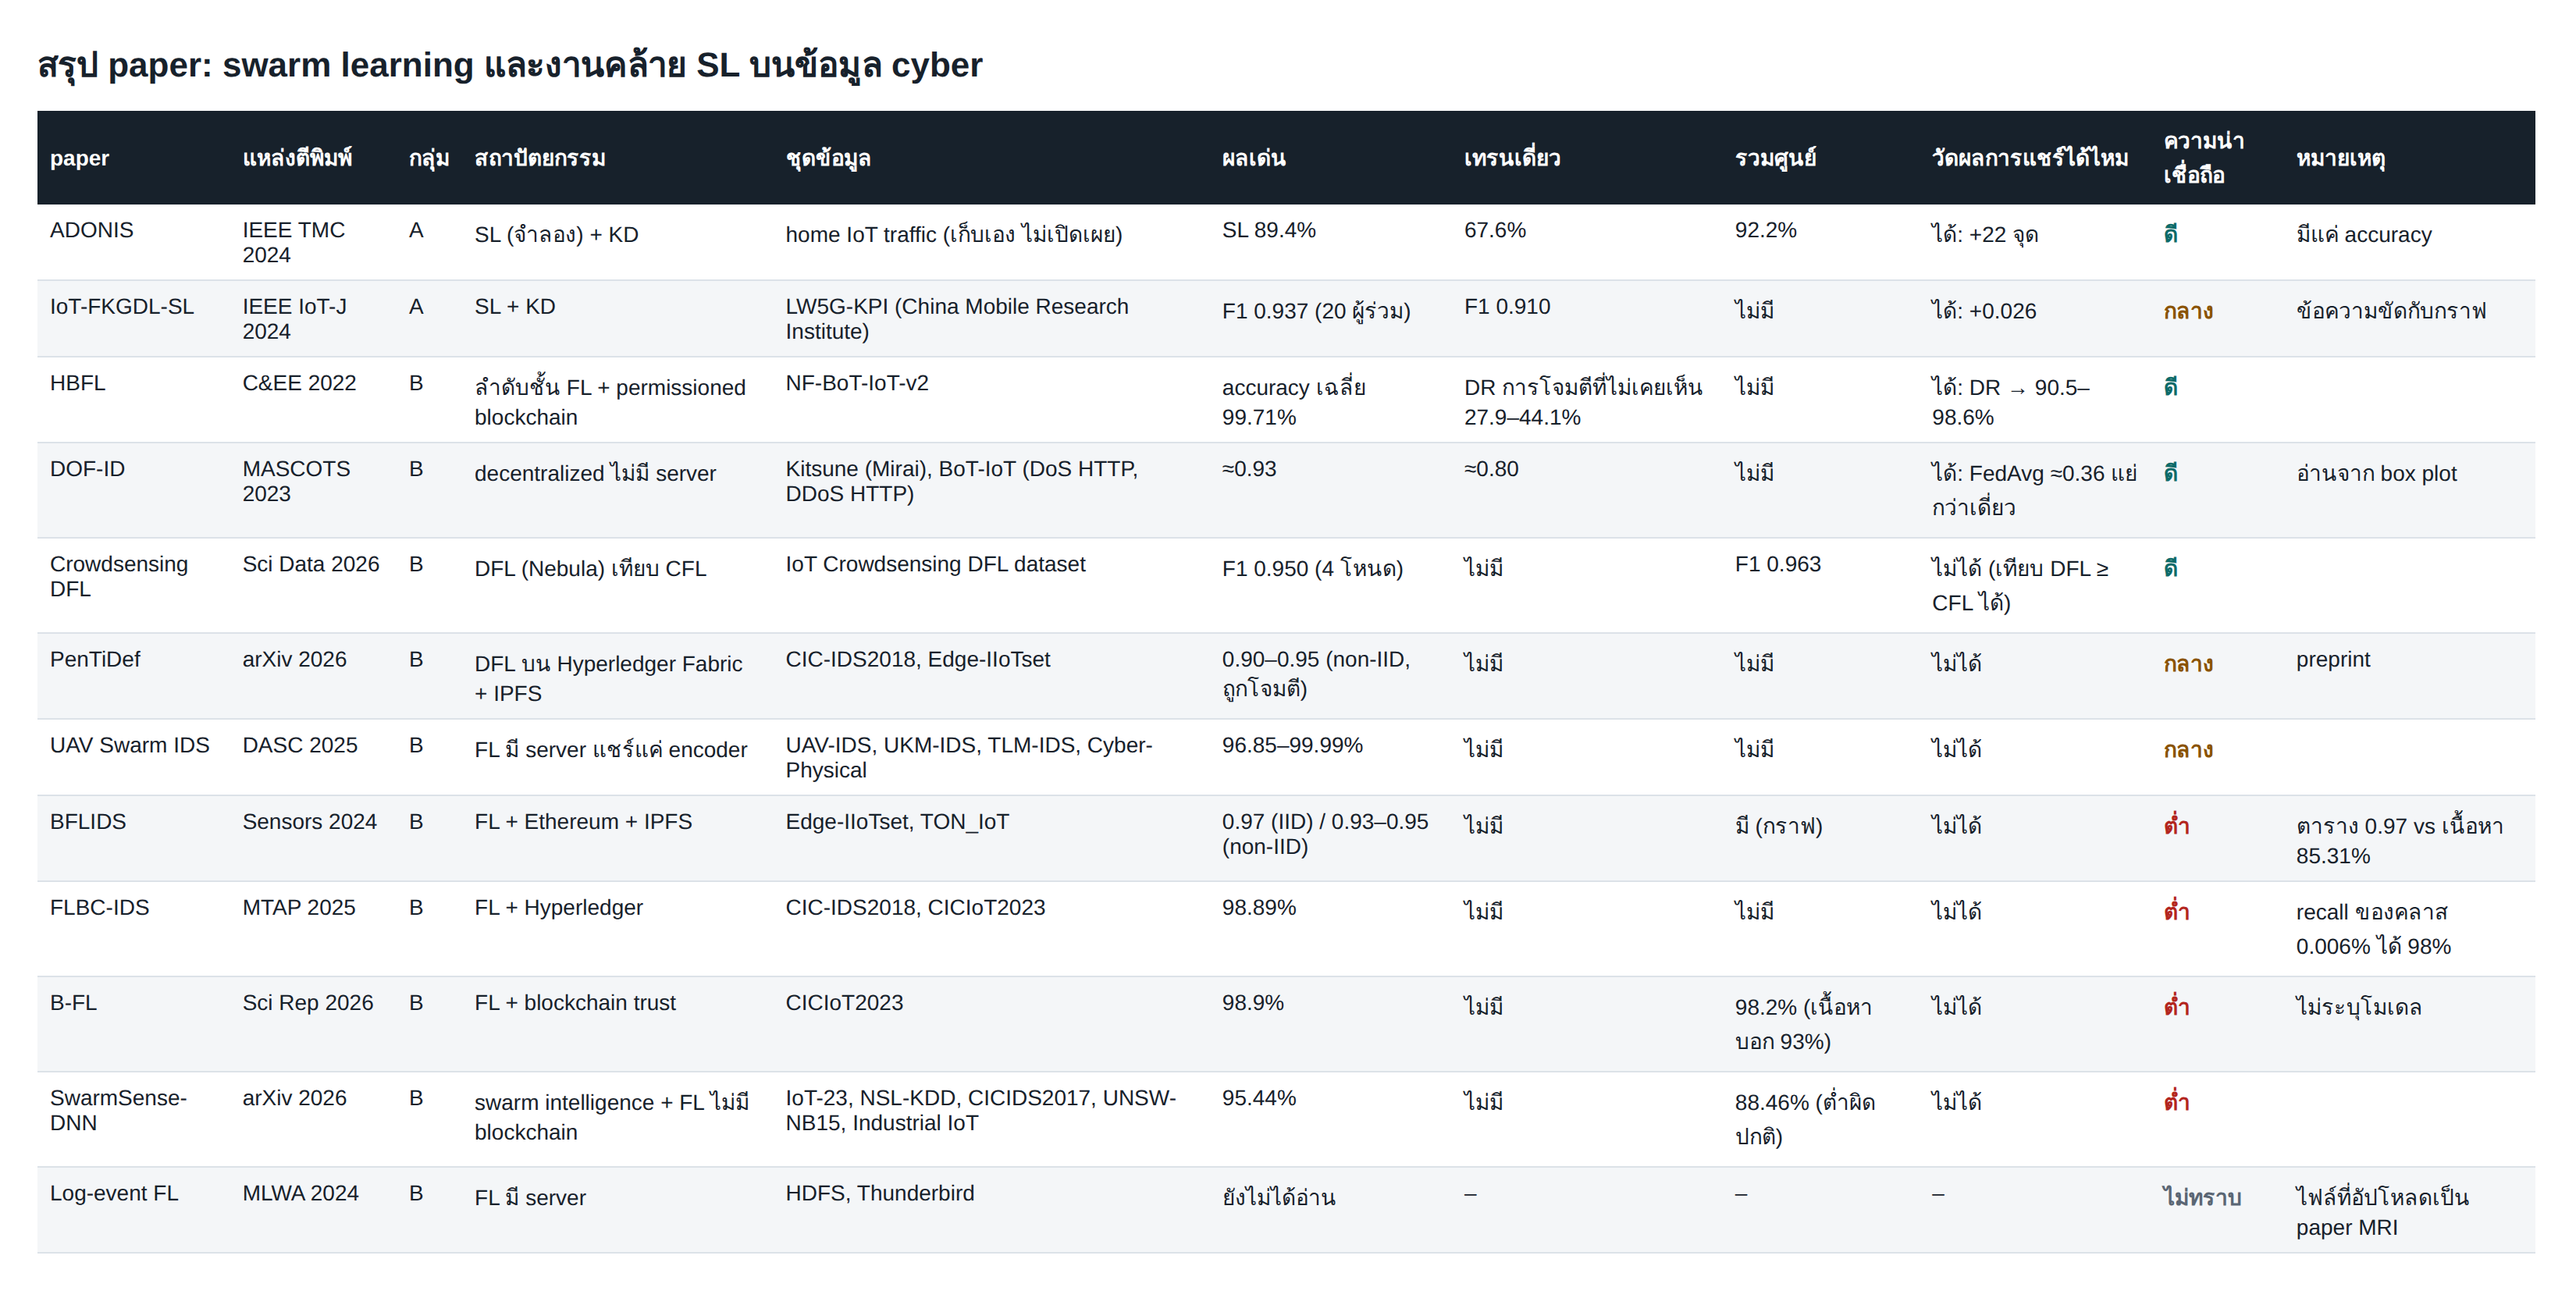
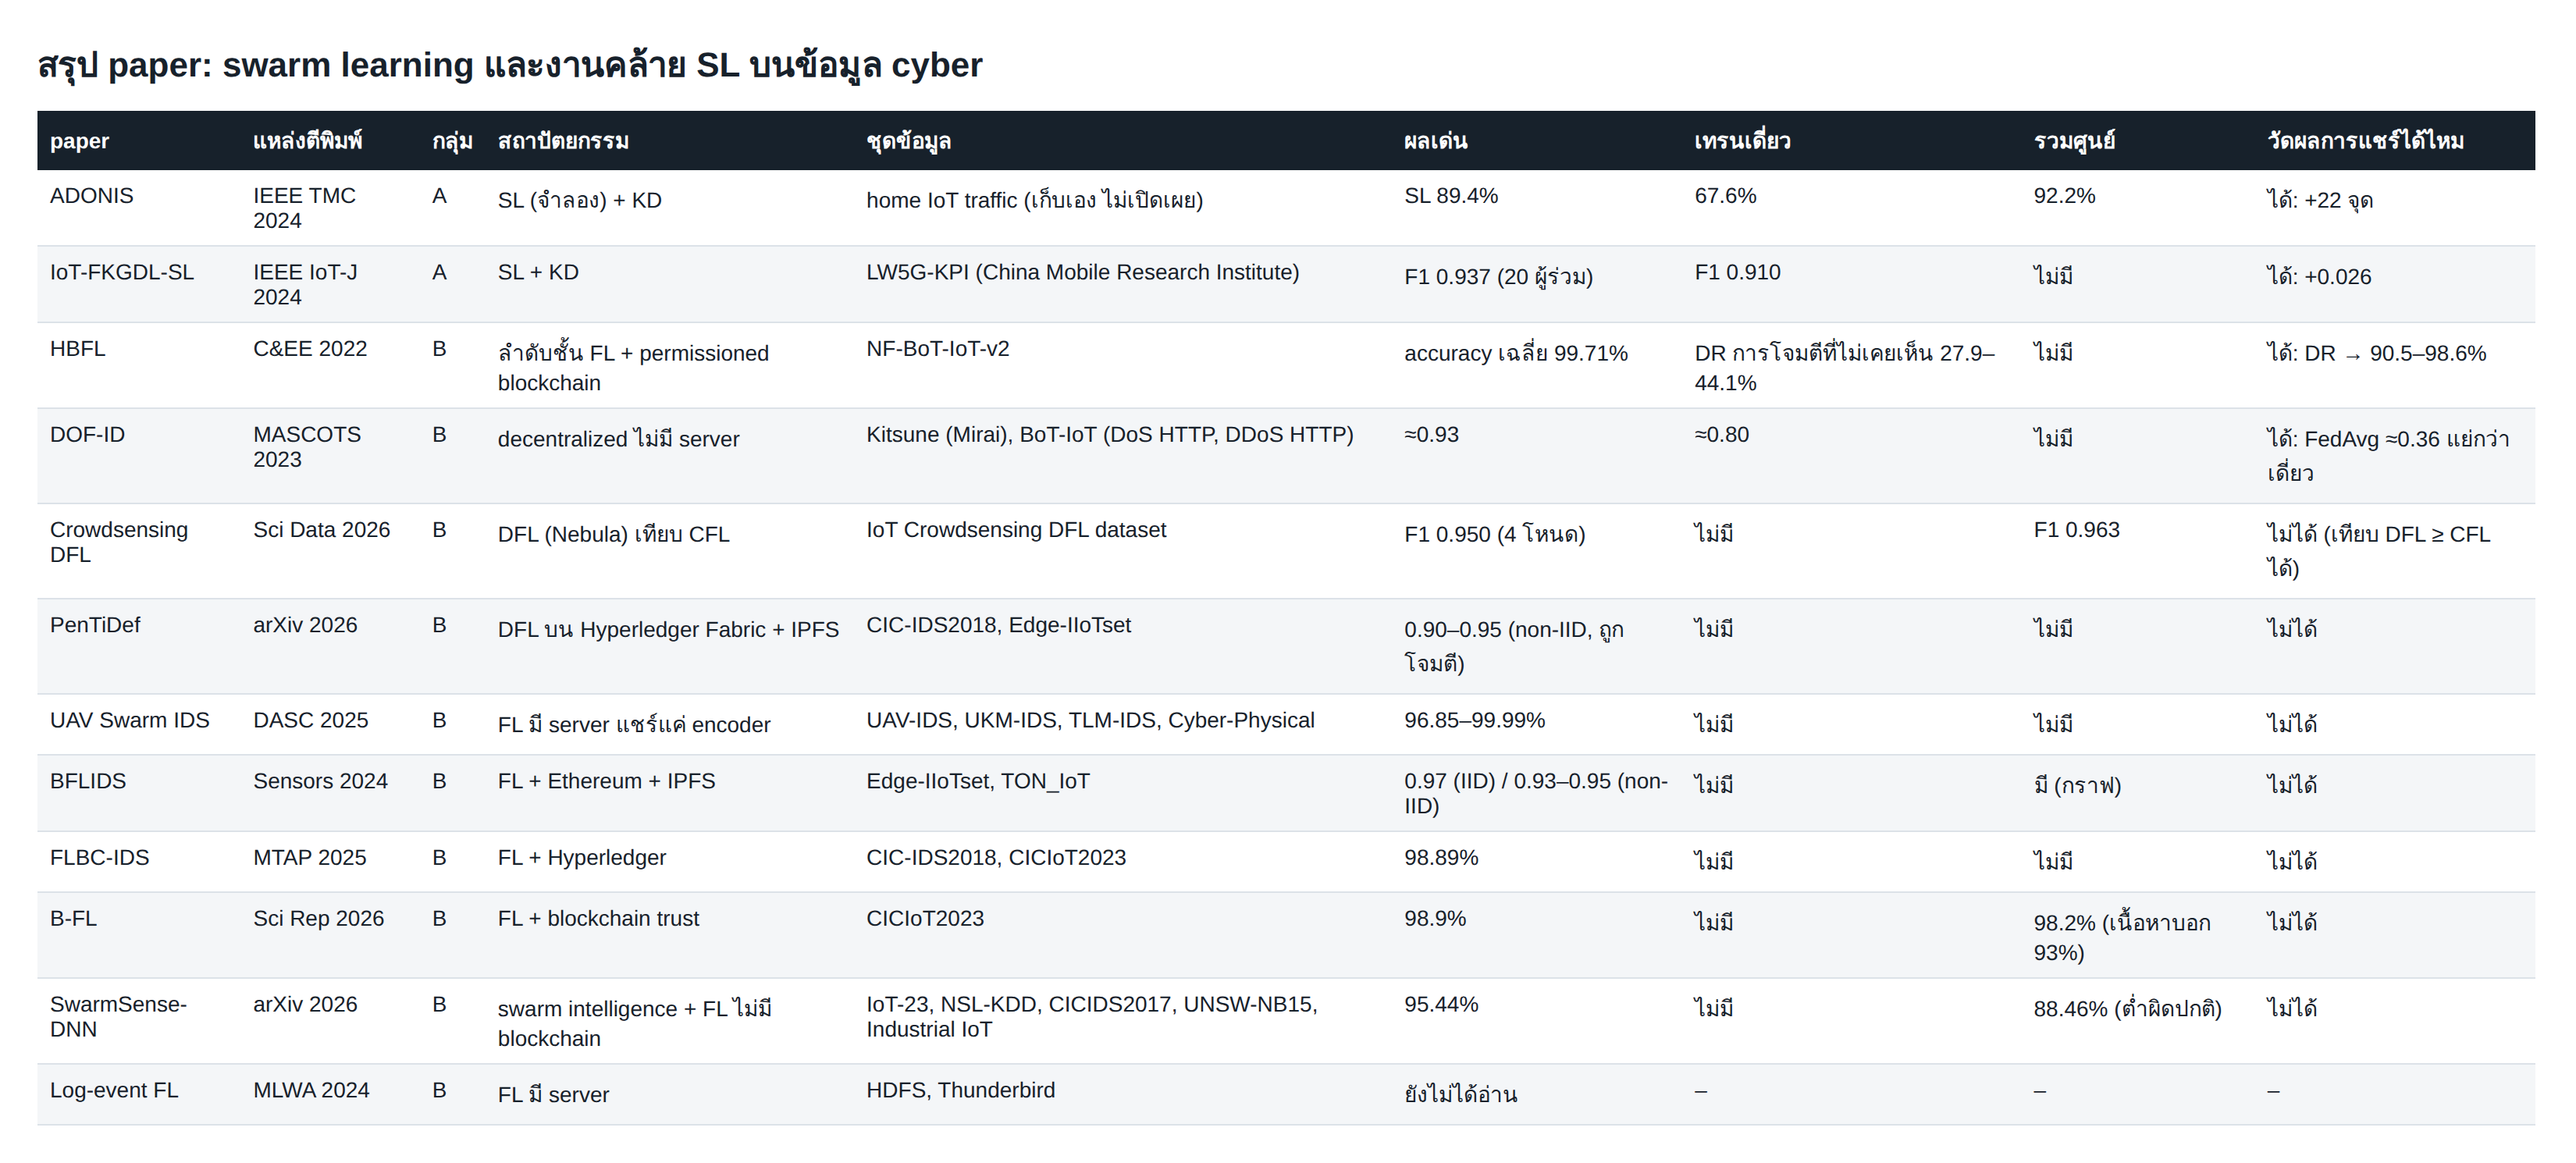
paper review: drop reliability and note columns from Canva export
Claude-Session: https://claude.ai/code/session_01TW26B3fiA9YvDmaURBJTqZ

diff --git a/poc/Finding Dataset/paper review/export/summary.html b/poc/Finding Dataset/paper review/export/summary.html
@@ -7,7 +7,6 @@ table { border-collapse: collapse; width: 1600px; font-size: 14px; }
 th { background: #17212b; color: #fff; text-align: left; padding: 8px; font-weight: 600; }
 td { border-bottom: 1px solid #dce2e8; padding: 8px; vertical-align: top; }
 tr:nth-child(even) td { background: #f4f6f8; }
-td.rel { font-weight: 600; }
 </style>
 <h1>สรุป paper: swarm learning และงานคล้าย SL บนข้อมูล cyber</h1>
-<table><thead><tr><th>paper</th><th>แหล่งตีพิมพ์</th><th>กลุ่ม</th><th>สถาปัตยกรรม</th><th>ชุดข้อมูล</th><th>ผลเด่น</th><th>เทรนเดี่ยว</th><th>รวมศูนย์</th><th>วัดผลการแชร์ได้ไหม</th><th>ความน่าเชื่อถือ</th><th>หมายเหตุ</th></tr></thead><tbody><tr><td>ADONIS</td><td>IEEE TMC 2024</td><td>A</td><td>SL (จำลอง) + KD</td><td>home IoT traffic (เก็บเอง ไม่เปิดเผย)</td><td>SL 89.4%</td><td>67.6%</td><td>92.2%</td><td>ได้: +22 จุด</td><td class='rel' style='color:#0D6B69'>ดี</td><td>มีแค่ accuracy</td></tr><tr><td>IoT-FKGDL-SL</td><td>IEEE IoT-J 2024</td><td>A</td><td>SL + KD</td><td>LW5G-KPI (China Mobile Research Institute)</td><td>F1 0.937 (20 ผู้ร่วม)</td><td>F1 0.910</td><td>ไม่มี</td><td>ได้: +0.026</td><td class='rel' style='color:#8A5300'>กลาง</td><td>ข้อความขัดกับกราฟ</td></tr><tr><td>HBFL</td><td>C&amp;EE 2022</td><td>B</td><td>ลำดับชั้น FL + permissioned blockchain</td><td>NF-BoT-IoT-v2</td><td>accuracy เฉลี่ย 99.71%</td><td>DR การโจมตีที่ไม่เคยเห็น 27.9–44.1%</td><td>ไม่มี</td><td>ได้: DR → 90.5–98.6%</td><td class='rel' style='color:#0D6B69'>ดี</td><td></td></tr><tr><td>DOF-ID</td><td>MASCOTS 2023</td><td>B</td><td>decentralized ไม่มี server</td><td>Kitsune (Mirai), BoT-IoT (DoS HTTP, DDoS HTTP)</td><td>≈0.93</td><td>≈0.80</td><td>ไม่มี</td><td>ได้: FedAvg ≈0.36 แย่กว่าเดี่ยว</td><td class='rel' style='color:#0D6B69'>ดี</td><td>อ่านจาก box plot</td></tr><tr><td>Crowdsensing DFL</td><td>Sci Data 2026</td><td>B</td><td>DFL (Nebula) เทียบ CFL</td><td>IoT Crowdsensing DFL dataset</td><td>F1 0.950 (4 โหนด)</td><td>ไม่มี</td><td>F1 0.963</td><td>ไม่ได้ (เทียบ DFL ≥ CFL ได้)</td><td class='rel' style='color:#0D6B69'>ดี</td><td></td></tr><tr><td>PenTiDef</td><td>arXiv 2026</td><td>B</td><td>DFL บน Hyperledger Fabric + IPFS</td><td>CIC-IDS2018, Edge-IIoTset</td><td>0.90–0.95 (non-IID, ถูกโจมตี)</td><td>ไม่มี</td><td>ไม่มี</td><td>ไม่ได้</td><td class='rel' style='color:#8A5300'>กลาง</td><td>preprint</td></tr><tr><td>UAV Swarm IDS</td><td>DASC 2025</td><td>B</td><td>FL มี server แชร์แค่ encoder</td><td>UAV-IDS, UKM-IDS, TLM-IDS, Cyber-Physical</td><td>96.85–99.99%</td><td>ไม่มี</td><td>ไม่มี</td><td>ไม่ได้</td><td class='rel' style='color:#8A5300'>กลาง</td><td></td></tr><tr><td>BFLIDS</td><td>Sensors 2024</td><td>B</td><td>FL + Ethereum + IPFS</td><td>Edge-IIoTset, TON_IoT</td><td>0.97 (IID) / 0.93–0.95 (non-IID)</td><td>ไม่มี</td><td>มี (กราฟ)</td><td>ไม่ได้</td><td class='rel' style='color:#B3261E'>ต่ำ</td><td>ตาราง 0.97 vs เนื้อหา 85.31%</td></tr><tr><td>FLBC-IDS</td><td>MTAP 2025</td><td>B</td><td>FL + Hyperledger</td><td>CIC-IDS2018, CICIoT2023</td><td>98.89%</td><td>ไม่มี</td><td>ไม่มี</td><td>ไม่ได้</td><td class='rel' style='color:#B3261E'>ต่ำ</td><td>recall ของคลาส 0.006% ได้ 98%</td></tr><tr><td>B-FL</td><td>Sci Rep 2026</td><td>B</td><td>FL + blockchain trust</td><td>CICIoT2023</td><td>98.9%</td><td>ไม่มี</td><td>98.2% (เนื้อหาบอก 93%)</td><td>ไม่ได้</td><td class='rel' style='color:#B3261E'>ต่ำ</td><td>ไม่ระบุโมเดล</td></tr><tr><td>SwarmSense-DNN</td><td>arXiv 2026</td><td>B</td><td>swarm intelligence + FL ไม่มี blockchain</td><td>IoT-23, NSL-KDD, CICIDS2017, UNSW-NB15, Industrial IoT</td><td>95.44%</td><td>ไม่มี</td><td>88.46% (ต่ำผิดปกติ)</td><td>ไม่ได้</td><td class='rel' style='color:#B3261E'>ต่ำ</td><td></td></tr><tr><td>Log-event FL</td><td>MLWA 2024</td><td>B</td><td>FL มี server</td><td>HDFS, Thunderbird</td><td>ยังไม่ได้อ่าน</td><td>–</td><td>–</td><td>–</td><td class='rel' style='color:#5a6674'>ไม่ทราบ</td><td>ไฟล์ที่อัปโหลดเป็น paper MRI</td></tr></tbody></table>
+<table><thead><tr><th>paper</th><th>แหล่งตีพิมพ์</th><th>กลุ่ม</th><th>สถาปัตยกรรม</th><th>ชุดข้อมูล</th><th>ผลเด่น</th><th>เทรนเดี่ยว</th><th>รวมศูนย์</th><th>วัดผลการแชร์ได้ไหม</th></tr></thead><tbody><tr><td>ADONIS</td><td>IEEE TMC 2024</td><td>A</td><td>SL (จำลอง) + KD</td><td>home IoT traffic (เก็บเอง ไม่เปิดเผย)</td><td>SL 89.4%</td><td>67.6%</td><td>92.2%</td><td>ได้: +22 จุด</td></tr><tr><td>IoT-FKGDL-SL</td><td>IEEE IoT-J 2024</td><td>A</td><td>SL + KD</td><td>LW5G-KPI (China Mobile Research Institute)</td><td>F1 0.937 (20 ผู้ร่วม)</td><td>F1 0.910</td><td>ไม่มี</td><td>ได้: +0.026</td></tr><tr><td>HBFL</td><td>C&amp;EE 2022</td><td>B</td><td>ลำดับชั้น FL + permissioned blockchain</td><td>NF-BoT-IoT-v2</td><td>accuracy เฉลี่ย 99.71%</td><td>DR การโจมตีที่ไม่เคยเห็น 27.9–44.1%</td><td>ไม่มี</td><td>ได้: DR → 90.5–98.6%</td></tr><tr><td>DOF-ID</td><td>MASCOTS 2023</td><td>B</td><td>decentralized ไม่มี server</td><td>Kitsune (Mirai), BoT-IoT (DoS HTTP, DDoS HTTP)</td><td>≈0.93</td><td>≈0.80</td><td>ไม่มี</td><td>ได้: FedAvg ≈0.36 แย่กว่าเดี่ยว</td></tr><tr><td>Crowdsensing DFL</td><td>Sci Data 2026</td><td>B</td><td>DFL (Nebula) เทียบ CFL</td><td>IoT Crowdsensing DFL dataset</td><td>F1 0.950 (4 โหนด)</td><td>ไม่มี</td><td>F1 0.963</td><td>ไม่ได้ (เทียบ DFL ≥ CFL ได้)</td></tr><tr><td>PenTiDef</td><td>arXiv 2026</td><td>B</td><td>DFL บน Hyperledger Fabric + IPFS</td><td>CIC-IDS2018, Edge-IIoTset</td><td>0.90–0.95 (non-IID, ถูกโจมตี)</td><td>ไม่มี</td><td>ไม่มี</td><td>ไม่ได้</td></tr><tr><td>UAV Swarm IDS</td><td>DASC 2025</td><td>B</td><td>FL มี server แชร์แค่ encoder</td><td>UAV-IDS, UKM-IDS, TLM-IDS, Cyber-Physical</td><td>96.85–99.99%</td><td>ไม่มี</td><td>ไม่มี</td><td>ไม่ได้</td></tr><tr><td>BFLIDS</td><td>Sensors 2024</td><td>B</td><td>FL + Ethereum + IPFS</td><td>Edge-IIoTset, TON_IoT</td><td>0.97 (IID) / 0.93–0.95 (non-IID)</td><td>ไม่มี</td><td>มี (กราฟ)</td><td>ไม่ได้</td></tr><tr><td>FLBC-IDS</td><td>MTAP 2025</td><td>B</td><td>FL + Hyperledger</td><td>CIC-IDS2018, CICIoT2023</td><td>98.89%</td><td>ไม่มี</td><td>ไม่มี</td><td>ไม่ได้</td></tr><tr><td>B-FL</td><td>Sci Rep 2026</td><td>B</td><td>FL + blockchain trust</td><td>CICIoT2023</td><td>98.9%</td><td>ไม่มี</td><td>98.2% (เนื้อหาบอก 93%)</td><td>ไม่ได้</td></tr><tr><td>SwarmSense-DNN</td><td>arXiv 2026</td><td>B</td><td>swarm intelligence + FL ไม่มี blockchain</td><td>IoT-23, NSL-KDD, CICIDS2017, UNSW-NB15, Industrial IoT</td><td>95.44%</td><td>ไม่มี</td><td>88.46% (ต่ำผิดปกติ)</td><td>ไม่ได้</td></tr><tr><td>Log-event FL</td><td>MLWA 2024</td><td>B</td><td>FL มี server</td><td>HDFS, Thunderbird</td><td>ยังไม่ได้อ่าน</td><td>–</td><td>–</td><td>–</td></tr></tbody></table>

diff --git a/poc/Finding Dataset/paper review/export_summary.py b/poc/Finding Dataset/paper review/export_summary.py
@@ -19,14 +19,13 @@ HERE = Path(__file__).resolve().parent
 OUT = HERE / "export"
 
 HEADER = ["paper", "แหล่งตีพิมพ์", "กลุ่ม", "สถาปัตยกรรม", "ชุดข้อมูล", "ผลเด่น",
-          "เทรนเดี่ยว", "รวมศูนย์", "วัดผลการแชร์ได้ไหม", "ความน่าเชื่อถือ", "หมายเหตุ"]
-REL_COLOR = {"ดี": "0D6B69", "กลาง": "8A5300", "ต่ำ": "B3261E"}
+          "เทรนเดี่ยว", "รวมศูนย์", "วัดผลการแชร์ได้ไหม"]
 
 
 def rows(d: dict) -> list[list[str]]:
     papers = {p["key"]: p for p in d["papers"]}
     return [[r["name"], r["venue"], papers[r["key"]]["tier"], r["arch"], ", ".join(papers[r["key"]]["datasets"]),
-             r["best"], r["local"], r["central"], r["measurable"], r["reliability"], r["note"]]
+             r["best"], r["local"], r["central"], r["measurable"]]
             for r in d["summary"]["rows"]]
 
 
@@ -40,14 +39,10 @@ def write_xlsx(path: Path, body: list[list[str]], counts: list[dict]) -> None:
     head = PatternFill("solid", fgColor="17212B")
     for c in ws[1]:
         c.font, c.fill = Font(bold=True, color="FFFFFF"), head
-    for row in ws.iter_rows(min_row=2):
-        rel = row[9]
-        if rel.value in REL_COLOR:
-            rel.font = Font(bold=True, color=REL_COLOR[rel.value])
     for row in ws.iter_rows():
         for c in row:
             c.alignment = Alignment(wrap_text=True, vertical="top")
-    for col, w in zip("ABCDEFGHIJK", (16, 16, 7, 26, 28, 24, 20, 18, 26, 13, 26)):
+    for col, w in zip("ABCDEFGHI", (16, 16, 7, 26, 28, 24, 20, 18, 26)):
         ws.column_dimensions[col].width = w
     ws.freeze_panes = "A2"
 
@@ -64,9 +59,7 @@ def write_xlsx(path: Path, body: list[list[str]], counts: list[dict]) -> None:
 def write_html(path: Path, body: list[list[str]]) -> None:
     e = html.escape
     tr = "".join(
-        "<tr>" + "".join(
-            f"<td class='rel' style='color:#{REL_COLOR.get(c, '5a6674')}'>{e(c)}</td>" if i == 9 else f"<td>{e(c)}</td>"
-            for i, c in enumerate(r)) + "</tr>"
+        "<tr>" + "".join(f"<td>{e(c)}</td>" for c in r) + "</tr>"
         for r in body)
     path.write_text(f"""<!doctype html><meta charset="utf-8">
 <link href="https://fonts.googleapis.com/css2?family=Sarabun:wght@400;600&display=swap" rel="stylesheet">
@@ -77,7 +70,6 @@ table {{ border-collapse: collapse; width: 1600px; font-size: 14px; }}
 th {{ background: #17212b; color: #fff; text-align: left; padding: 8px; font-weight: 600; }}
 td {{ border-bottom: 1px solid #dce2e8; padding: 8px; vertical-align: top; }}
 tr:nth-child(even) td {{ background: #f4f6f8; }}
-td.rel {{ font-weight: 600; }}
 </style>
 <h1>สรุป paper: swarm learning และงานคล้าย SL บนข้อมูล cyber</h1>
 <table><thead><tr>{''.join(f'<th>{e(h)}</th>' for h in HEADER)}</tr></thead><tbody>{tr}</tbody></table>
